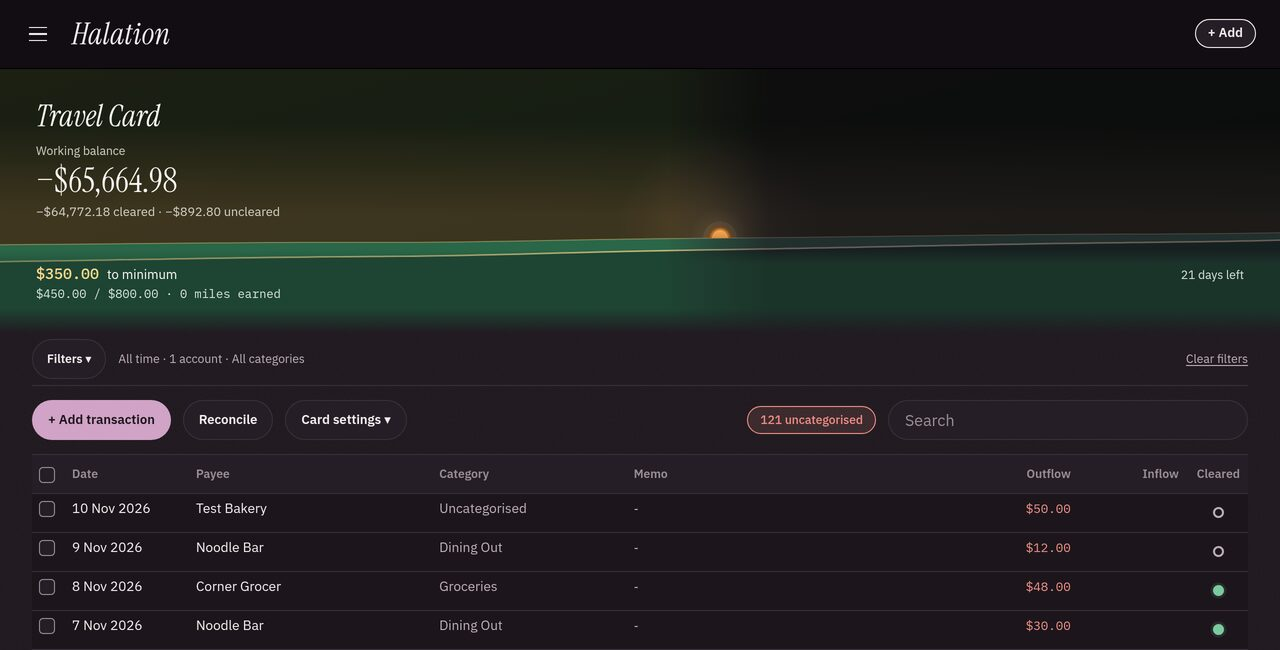
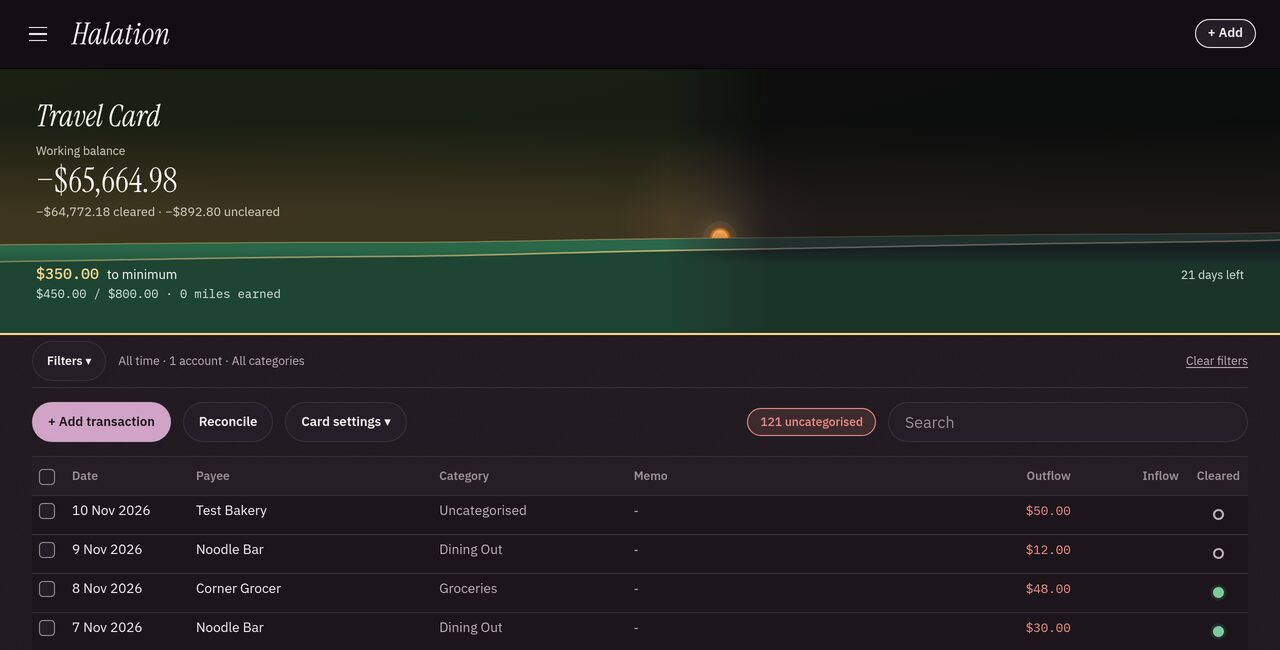
End the web register's sunrise ground in a solid line
The ground faded into the page above the filters; it now stops at a 2px
line, a deeper green in light mode and the horizon's gold in dark.

Amp-Thread-ID: https://ampcode.com/threads/T-01a1c044-346c-779c-82ae-e82a016dda3d

diff --git a/apps/web/src/styles/app/register.css b/apps/web/src/styles/app/register.css
@@ -70,7 +70,7 @@ a.page-eyebrow:hover {
 /* An account register with one reward card: the card's sunrise strip (pages/rewards-board.css) behind
    the whole header, reaching the content area's top and side edges (the report body's padding). The
    title and balance sit in the sky, kept left of the sun's column at 85%, and the card's words on the
-   ground, which fades into the page over the last 24px, below them. */
+   ground below them. */
 .report-header.register-header.register-masthead {
   --masthead-inset: 36px;
   display: block;
@@ -82,7 +82,15 @@ a.page-eyebrow:hover {
   padding: 30px var(--masthead-inset);
   border-radius: 0;
   box-shadow: none;
-  mask-image: linear-gradient(to bottom, #000 calc(100% - 24px), transparent);
+}
+
+/* The ground ends in a solid line above the filters: the horizon's gold in dark mode, a deeper green in light,
+   where the gold is lost against the page. */
+.register-masthead::after {
+  content: "";
+  display: block;
+  height: 2px;
+  background: var(--masthead-edge);
 }
 
 /* The title and balance sit in the sky the climbing sun pours into: keep the pour and dark mode's bloom
@@ -140,10 +148,10 @@ a.page-eyebrow:hover {
   }
 }
 
-/* Dark mode's foot scrim runs the full width of the scene and on into the ground's fade, softening in
+/* Dark mode's foot scrim runs the full width of the scene and down to the ground's edge, softening in
    above the words, so it never shows as a slab with edges. */
 .register-masthead .rw-strip-foot::before {
-  inset: -14px calc(-1 * var(--masthead-inset)) -30px;
+  inset: -14px calc(-1 * var(--masthead-inset)) -40px;
   background: linear-gradient(to bottom, transparent, var(--face-scrim) 14px);
 }
 
@@ -1840,3 +1848,4 @@ button.estimate-mark:disabled {
   flex-basis: 100%;
   margin: 0;
 }
+

diff --git a/apps/web/src/styles/tokens.css b/apps/web/src/styles/tokens.css
@@ -86,6 +86,7 @@
   --face-cashback-ink: #1c1b18; --face-miles-ink: #1c1b18; --face-foot-ink: #1c1b18;
   --face-foot-soft: #2c3832; --face-urgent-ink: #5a2f00; --face-failed-ink: #701510;
   --ridge-back: #a9d6b1; --ridge-front: #86c396; --ridge-crest: #ffd98c;
+  --masthead-edge: #689172;   /* the register masthead's ground edge: the front ridge, deepened */
   --face-crest-target: 0.4; --face-crest-spend: 0.75; --face-crest-merged: 0.9;
   --face-scrim: transparent;
   /* Gold laid over the blue to the marker, the cool dim beyond it, and the contrail (miles). */
@@ -167,6 +168,7 @@
   --face-cashback-ink: #f7f5ef; --face-miles-ink: #f7f5ef; --face-foot-ink: #f7f5ef;
   --face-foot-soft: #d4e2d9; --face-urgent-ink: #ffd98c; --face-failed-ink: #ffabae;
   --ridge-back: #2a6648; --ridge-front: #1e4433;
+  --masthead-edge: var(--ridge-crest);
   --face-scrim: #1e44338c;
   --face-lit-top: transparent; --face-lit-bottom: transparent; --face-contrail: transparent; --face-veil-dim: transparent;
   --face-veil-cashback: #d4cbd4; --face-veil-miles: #8a8496; --face-veil-grey: #808080; --face-bloom: #ffe3ac;

diff --git a/.cursor/skills/verify-howmuch/features/transactions-register.md b/.cursor/skills/verify-howmuch/features/transactions-register.md
@@ -9,7 +9,7 @@ The register is a dense list of ledger rows with the same filter rail as reports
 - `register-default-empty` is empty on the default trailing-two-month window when today is 2026-08.
 - `register-search` finds rows by payee, memo, category, account, or amount as it appears (`142.30`, `142`, `$142.30`), including older transactions than the ones already on screen.
 - `register-balances` shows the working balance as the header figure, with `{cleared} cleared · {uncleared} uncleared` beneath it. A single-account register adds `{amount} as of today` when posted future-dated rows exist, and `Last reconciled {date}` once the account has been reconciled.
-- `register-masthead`: a single-account register on a card account with exactly one reward card draws that card's sunrise strip behind the header (`.register-masthead`, with `data-stage`). The title and balance lines sit in the sky, left-aligned. The card's words sit on the ground with no repeated card name, and they link to `/rewards?accounts={id}` with the label `Rewards, {card}. {spoken status}`. The ground fades into the page above Filters, and the scene reaches the content area's top and side edges with no horizontal scroll at 320 to 1440px. Saving a card spend from the register updates the words without a reload. Two cards on the account, no card (Everyday Account) and Ledger keep the plain header. Scripted states: `.amp/in/artifacts/register-sunrise-masthead/web/states.sh`.
+- `register-masthead`: a single-account register on a card account with exactly one reward card draws that card's sunrise strip behind the header (`.register-masthead`, with `data-stage`). The title and balance lines sit in the sky, left-aligned. The card's words sit on the ground with no repeated card name, and they link to `/rewards?accounts={id}` with the label `Rewards, {card}. {spoken status}`. The ground ends in a solid 2px line above Filters (`.register-masthead::after`, green in light mode, gold in dark), and the scene reaches the content area's top and side edges with no horizontal scroll at 320 to 1440px. Saving a card spend from the register updates the words without a reload. Two cards on the account, no card (Everyday Account) and Ledger keep the plain header. Scripted states: `.amp/in/artifacts/register-sunrise-masthead/web/states.sh`.
 - `register-scheduled` shows a closed **Scheduled** disclosure on Ledger and on an account register when recurrences or posted futures exist.
 - `register-phone-cards` at viewport ≤720px every row is a two-line card: payee and signed amount (`−$17.60`, `+$4,850.00`) on top; date, category and, on Ledger, the account beneath. `document.documentElement.scrollWidth` equals the viewport width and no amount is off screen. Double-tapping a row opens a stacked editor with labelled fields (`Outflow (money out)`, `Inflow (money in)`) and Cancel / Save inside the card; saving updates the card and `GET …/transactions/{id}`.
 

diff --git a/docs/frontend/rewards-exposure-card.md b/docs/frontend/rewards-exposure-card.md
@@ -445,7 +445,7 @@ An account register with exactly one reward card draws that card's scene behind 
 - **Bleed.** It reaches the content area's top and side edges, as the Rewards masthead does.
 - **Sky.** The title, working balance, cleared and uncleared line and any `as of today` or `Last reconciled` note sit in the sky in the face ink, left-aligned and within 72% of the width, so the sun's column stays clear. The band to the ground is 44px.
 - **Ground.** The words are a link to `/rewards?accounts={id}`. They use the board's type, Plex figures and basis line, since Plex is the web's own voice. The card's name shows only when it differs from the account's.
-- **Fade and scrim.** The ground fades into the page over its last 24px, above Filters, and dark mode's foot scrim runs into that fade.
+- **Edge and scrim.** The ground ends in a solid 2px line above Filters (the owner's ask, 10 Nov 2026: no fade into the page). The line is `--masthead-edge`: a deeper green (`#689172`) in light mode, where the horizon's gold is lost against the page, and the horizon's gold in dark. Dark mode's foot scrim runs down to that edge.
 - **Pour and bloom** are held to 35%, so the sky's soft ink keeps 4.5:1 on a capped card in dark mode (5.4:1 measured).
 - **Fallbacks.** Two cards, no reward card and a multi-account view keep the plain header.
 - **Refresh.** The report refetches when the ledger moves, keeping the last one on screen meanwhile.

diff --git a/.amp/in/artifacts/register-sunrise-masthead/RECORD.md b/.amp/in/artifacts/register-sunrise-masthead/RECORD.md
@@ -101,3 +101,10 @@ HowMuchTests: 825 tests, 1 skipped, 0 failures on a fresh build of the fixed tre
 | Save a spend in the register | Words update without a reload | Added `Test Bakery` −$50.00 through + Add transaction: within 2s the ground read `$350.00 to minimum` and `$450.00 / $800.00` |
 
 Checks: `bun run check` (bun test and the web and worker typechecks). No iOS files changed.
+
+### Web ground edge (10 Nov 2026)
+
+- **Request (YJ):** "I'm not sure I like the fade between the grass and the body. Can we have a solid line or some alternative?"
+- **Options captured** at 1280 and 390, light and dark: the fade as landed (`web/edge-fade-before.jpg`); a hard edge with a 2px line (`web/edge-line.jpg`); a hard edge with the app's glowing `--crest` header rule (`web/edge-option-crest.jpg`); a plain hard edge (`web/edge-option-plain.jpg`).
+- **Chosen:** the solid line, as asked. The horizon's gold, used as the line in light mode, was nearly invisible on the cream page, so light mode uses a deeper green (`#689172`) and dark mode keeps the gold.
+- **Observed:** `.register-masthead::after` computes to 2px of `rgb(255, 217, 140)` in dark mode. No horizontal scroll at 390 or 1280. Desktop and phone captures (`web/desktop-*.jpg`, `web/phone-light-dark.jpg`, `web/edge-line-phone.jpg`) were redone with the line.
